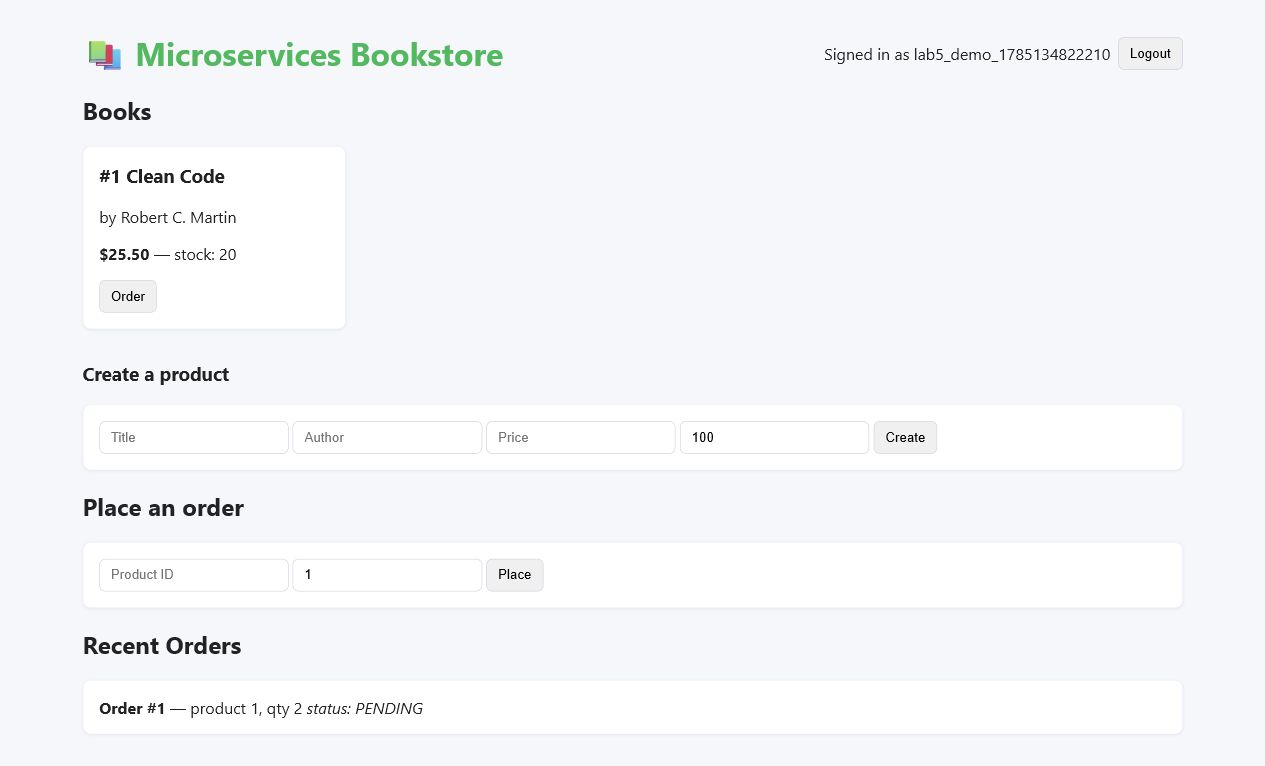
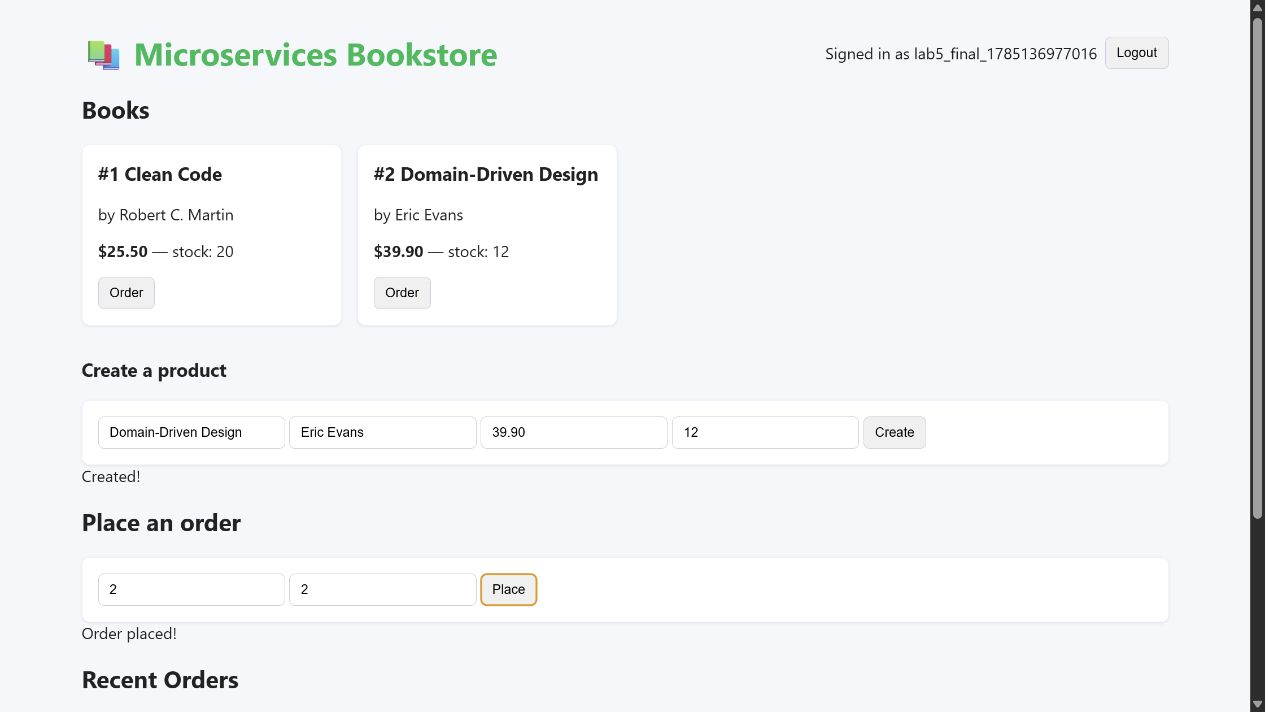
Match direct Lab endpoints and improve submission evidence

diff --git a/product-service/index.js b/product-service/index.js
@@ -5,7 +5,7 @@ const app = express();
 app.use(express.json());
 
 // List products
-app.get('/', async (_req, res) => {
+async function listProducts(_req, res) {
   try {
     const result = await db.query('SELECT * FROM books ORDER BY id ASC');
     res.json(result.rows);
@@ -13,10 +13,10 @@ app.get('/', async (_req, res) => {
     console.error('List products error:', err);
     res.status(500).json({ error: 'Internal server error' });
   }
-});
+}
 
 // Get product by id
-app.get('/:id', async (req, res) => {
+async function getProduct(req, res) {
   try {
     const id = Number(req.params.id);
     if (!Number.isInteger(id) || id <= 0) {
@@ -33,7 +33,11 @@ app.get('/:id', async (req, res) => {
     console.error('Get product error:', err);
     res.status(500).json({ error: 'Internal server error' });
   }
-});
+}
+
+// Support both direct Lab endpoints and gateway-stripped paths.
+app.get(['/', '/products'], listProducts);
+app.get(['/:id', '/products/:id'], getProduct);
 
 // Create product
 app.post('/', async (req, res) => {

diff --git a/order-service/index.js b/order-service/index.js
@@ -10,7 +10,7 @@ app.use(express.json());
 connectToBroker().catch(err => console.error('Broker init error', err));
 
 // Create order
-app.post('/', async (req, res) => {
+async function createOrder(req, res) {
   try {
     const productId = Number(req.body.productId);
     const quantity = Number(req.body.quantity);
@@ -71,7 +71,10 @@ app.post('/', async (req, res) => {
     console.error('Create order error:', err);
     res.status(500).json({ error: 'Internal server error' });
   }
-});
+}
+
+// Support both the direct Lab endpoint and the gateway-stripped path.
+app.post(['/', '/orders'], createOrder);
 
 // List orders
 app.get('/', async (_req, res) => {

diff --git a/user-service/index.js b/user-service/index.js
@@ -24,7 +24,7 @@ function auth(req, res, next) {
 }
 
 // Register
-app.post('/register', async (req, res) => {
+async function registerUser(req, res) {
   try {
     const { username, password } = req.body;
     if (!username || !password) {
@@ -43,7 +43,10 @@ app.post('/register', async (req, res) => {
     console.error('Register error:', err);
     res.status(500).json({ error: 'Internal server error' });
   }
-});
+}
+
+// Support both the direct Lab endpoint and the gateway-stripped path.
+app.post(['/register', '/users/register'], registerUser);
 
 // Login
 app.post('/login', async (req, res) => {

diff --git a/README.md b/README.md
@@ -3,6 +3,9 @@
 Student ID: `2331200072`  
 Student name: `Nguyen Ta Hoang Nghia`
 
+Public GitHub repository:  
+<https://github.com/nghianguyentacit23-cell/git-bookstore-microservices-2331200072-NguyenTaHoangNghia>
+
 ## Architecture
 
 - Frontend: Express static web application
@@ -25,6 +28,14 @@ RabbitMQ Management is available at <http://localhost:15672> with the default
 development credentials `guest` / `guest`.
 
 ## API routes
+
+Direct service endpoints required by the Lab:
+
+- Product service (`localhost:8002`): `GET /products`, `GET /products/:id`
+- User service (`localhost:8001`): `POST /users/register`
+- Order service (`localhost:8003`): `POST /orders`
+
+API Gateway endpoints:
 
 - `POST /api/users/register`
 - `POST /api/users/login`
